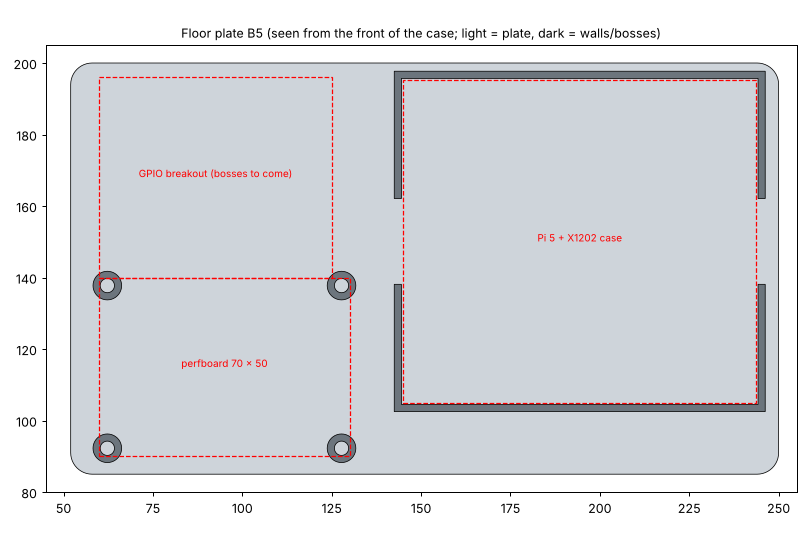
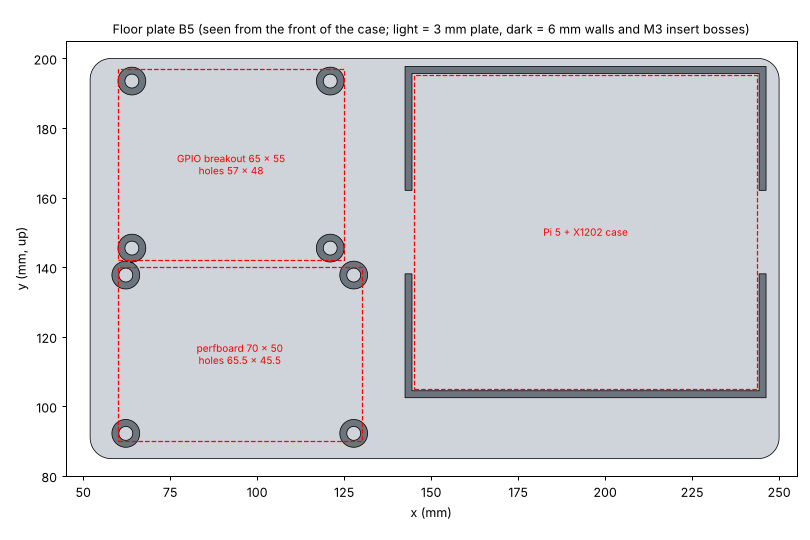
Add GPIO breakout bosses to the floor plate
Four 6 mm M3 insert bosses on the breakout's ~57 x 48 mm holes, with the
board 2 mm above the perfboard. 0 clashes; B5 ready to print.

Claude-Session: https://claude.ai/code/session_015Mjdpdd6ef1wmGCnczCrjc

diff --git a/hardware/src/floorplate.py b/hardware/src/floorplate.py
@@ -1,6 +1,6 @@
 """Floor plate: a 3 mm PETG plate glued to the case floor (Loctite 770 + 406, or VHB with 3M Primer 94).
 It carries a low-walled pocket for the Pi 5 in its X1202-C1 case and heat-set insert bosses for the
-70 x 50 mm soldered perfboard. GPIO breakout bosses to come once its hole pattern is known.
+70 x 50 mm soldered perfboard and the 65 x 55 mm GPIO breakout.
 Panel coordinates (x right, y up, z = depth behind the panel front); the plate's underside sits on the floor."""
 exec(open('frame.py').read())
 from manifold3d import Manifold
@@ -14,6 +14,11 @@ PK_CL,PK_WALL,PK_HT=0.5,2.0,6.0
 # 70 x 50 perfboard, M3 holes on 65.5 x 45.5 centres (measured), on 6 mm insert bosses
 PB=(60.0,90.0,130.0,140.0); PB_HX,PB_HY=65.5,45.5; BOSS_H,BOSS_D=6.0,8.0
 INS_D,INS_L=4.0,5.7
+# 65 x 55 GPIO breakout, M3 holes on ~57 x 48 centres (measured), above the perfboard with a 2 mm gap
+BO=(60.0,142.0,125.0,197.0); BO_HX,BO_HY=57.0,48.0
+def bo_holes():
+    cx,cy=(BO[0]+BO[2])/2,(BO[1]+BO[3])/2
+    return [(cx+sx*BO_HX/2,cy+sy*BO_HY/2) for sx in (-1,1) for sy in (-1,1)]
 def pb_holes():
     cx,cy=(PB[0]+PB[2])/2,(PB[1]+PB[3])/2
     return [(cx+sx*PB_HX/2,cy+sy*PB_HY/2) for sx in (-1,1) for sy in (-1,1)]
@@ -27,7 +32,7 @@ def build_floor_plate():
     for y in ((b+d)/2,):
         wall=wall-box(a-PK_WALL-1,y-12,z0-PK_HT-1,a+0.1,y+12,z0+0.01)-box(c-0.1,y-12,z0-PK_HT-1,c+PK_WALL+1,y+12,z0+0.01)
     p=p+wall
-    for x,y in pb_holes():
+    for x,y in pb_holes()+bo_holes():
         p=p+Manifold.cylinder(BOSS_H,BOSS_D/2,BOSS_D/2,40).translate([x,y,z0-BOSS_H])
         p=p-Manifold.cylinder(INS_L+0.5,INS_D/2,INS_D/2,32).translate([x,y,z0-BOSS_H-0.01])
     return p

diff --git a/hardware/src/check.py b/hardware/src/check.py
@@ -28,7 +28,7 @@ _FP={'__name__':'lib'}; exec(open('floorplate.py').read(),_FP)
 parts['floor_plate']=_FP['build_floor_plate']()
 # boards sit on the floor plate (3 mm); the Pi in its pocket, the boards on 6 mm bosses
 parts['pi']=box(145,105,FLOOR_Z-3-62.75,145+98.75,105+90.2,FLOOR_Z-3)
-parts["breakout"]=box(60,140,FLOOR_Z-9-25,60+65,140+55,FLOOR_Z-9)   # 65 x 55 (measured), 25 mm tall (assumed)
+parts["breakout"]=box(60,142,FLOOR_Z-9-25,60+65,142+55,FLOOR_Z-9)   # 65 x 55 (measured), 25 mm tall (assumed)
 parts['breadboard']=box(60,90,FLOOR_Z-9-1.6-15,60+70,90+50,FLOOR_Z-9)
 names=list(parts); bad=0
 for i in range(len(names)):

diff --git a/hardware/README.md b/hardware/README.md
@@ -31,7 +31,7 @@ Bambu Studio 3MF plates for a Bambu Lab P1S (256 mm bed). Every part is already 
 | B3 | Port tray, four floor posts, four screen clamps, PMS7003 cradle |
 | B3a | Port tray and PMS7003 cradle (the same parts as on B3, for printing them first) |
 | B4 | Two kickstand hinge plates and legs |
-| B5 | Floor plate: Pi case pocket and perfboard insert bosses (hold until the GPIO breakout bosses are added) |
+| B5 | Floor plate: Pi case pocket, insert bosses for the perfboard and the GPIO breakout |
 | speaker_pods_complete_x2 | Both complete pods (bodies and baffles) on one plate, if you print the pods separately from B1/B2 |
 
 The KVM remote button lives in the lid's magnetic tray; its cable runs through the keyboard cable slots. The PMS7003 cradle on B3/B3a is printed mirrored so its board side faces the screen.
@@ -42,7 +42,7 @@ The KVM remote button lives in the lid's magnetic tray; its cable runs through t
 
 | Item | Qty | Used for |
 |---|---|---|
-| M3 heat-set insert (M3 × 5.7, for a 4.0 mm hole) | 43 (+ spares) | Pods 8, screen clamps 8, port tray 4, posts 4, PMS7003 cradle 3, keyboard cradle 12, floor plate 4 (perfboard) |
+| M3 heat-set insert (M3 × 5.7, for a 4.0 mm hole) | 47 (+ spares) | Pods 8, screen clamps 8, port tray 4, posts 4, PMS7003 cradle 3, keyboard cradle 12, floor plate 8 (perfboard, breakout) |
 | M3 × 8 countersunk | 24 | Lid overlay, screen clamps, port tray, sensor cradle |
 | M3 × 10 countersunk | 4 | Floor posts |
 | M3 × 20 countersunk | 8 | Speaker pods through the panel |
@@ -84,7 +84,7 @@ python placement_sheet.py # redraws ../docs/placement_sheet.png
 | `screen_clamp.py` | Screen corner clamps |
 | `pms7003_v2.py` | Ducted PMS7003 cradle |
 | `kickstand.py` | Kickstand hinge plate and leg |
-| `floorplate.py` | Floor plate glued to the case floor: Pi case pocket, perfboard bosses |
+| `floorplate.py` | Floor plate glued to the case floor: Pi case pocket, perfboard and breakout bosses |
 | `placement_sheet.py`, `assembly_sheet.py`, `pms_diagram.py`, `layout_sheet.py` | The placement, exploded-assembly, sensor-cradle and internal-layout drawings in `docs/` |
 
 The case interior dimensions come from measurements of the real Peli 1400: 99 mm rim to floor, a 30 mm lid, and about 306.5 × 232.9 mm inside at the rim.
@@ -92,5 +92,4 @@ The case interior dimensions come from measurements of the real Peli 1400: 99 mm
 ## Still to do
 
 - KVM (StarTech C2-H46-UAC-CBL-KVM): mount behind the left half of the screen (see docs/internal_layout.png); needs a photo of the screen case's back. Needs right-angle HDMI and USB-A plugs on its console side.
-- Floor plate (B5): add insert bosses for the GPIO breakout once its hole pattern is known.
 - Confirm the D-size USB socket screw spacing (19 × 24 mm assumed) before printing the port tray.
